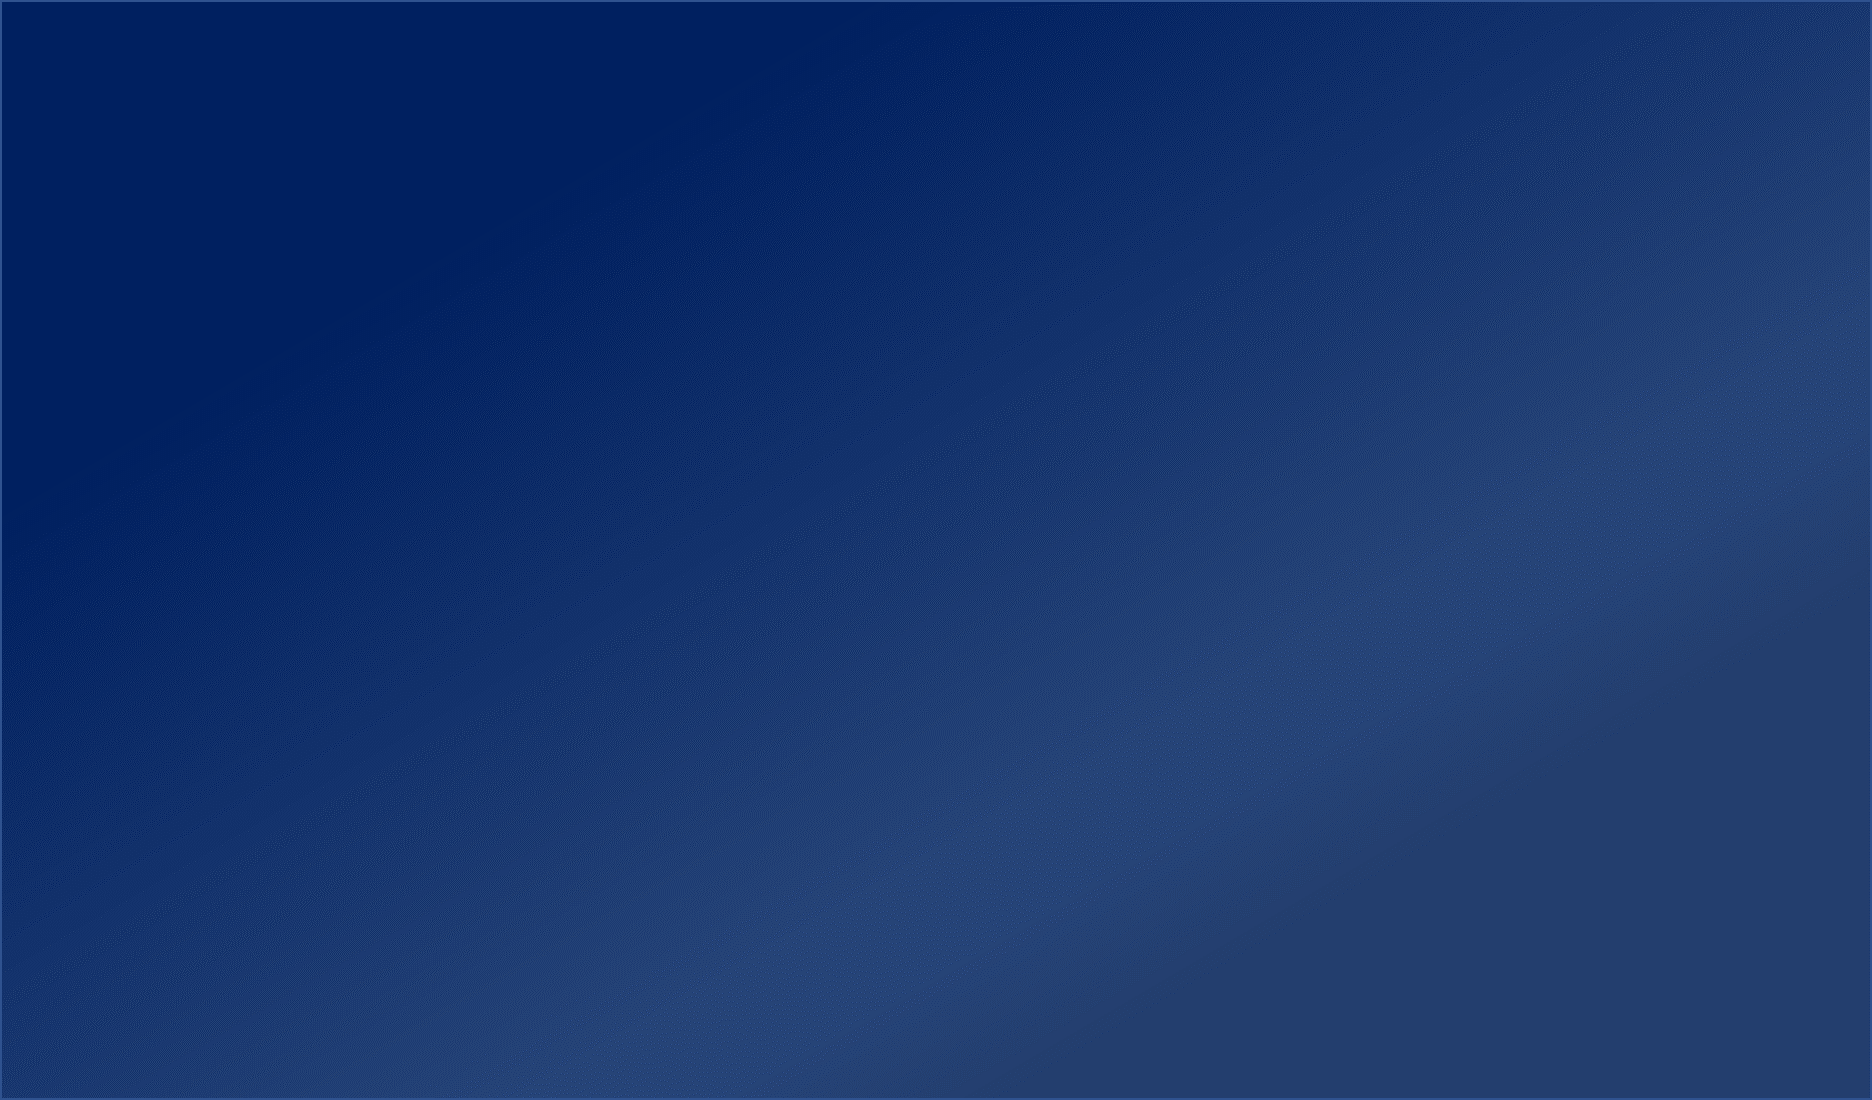
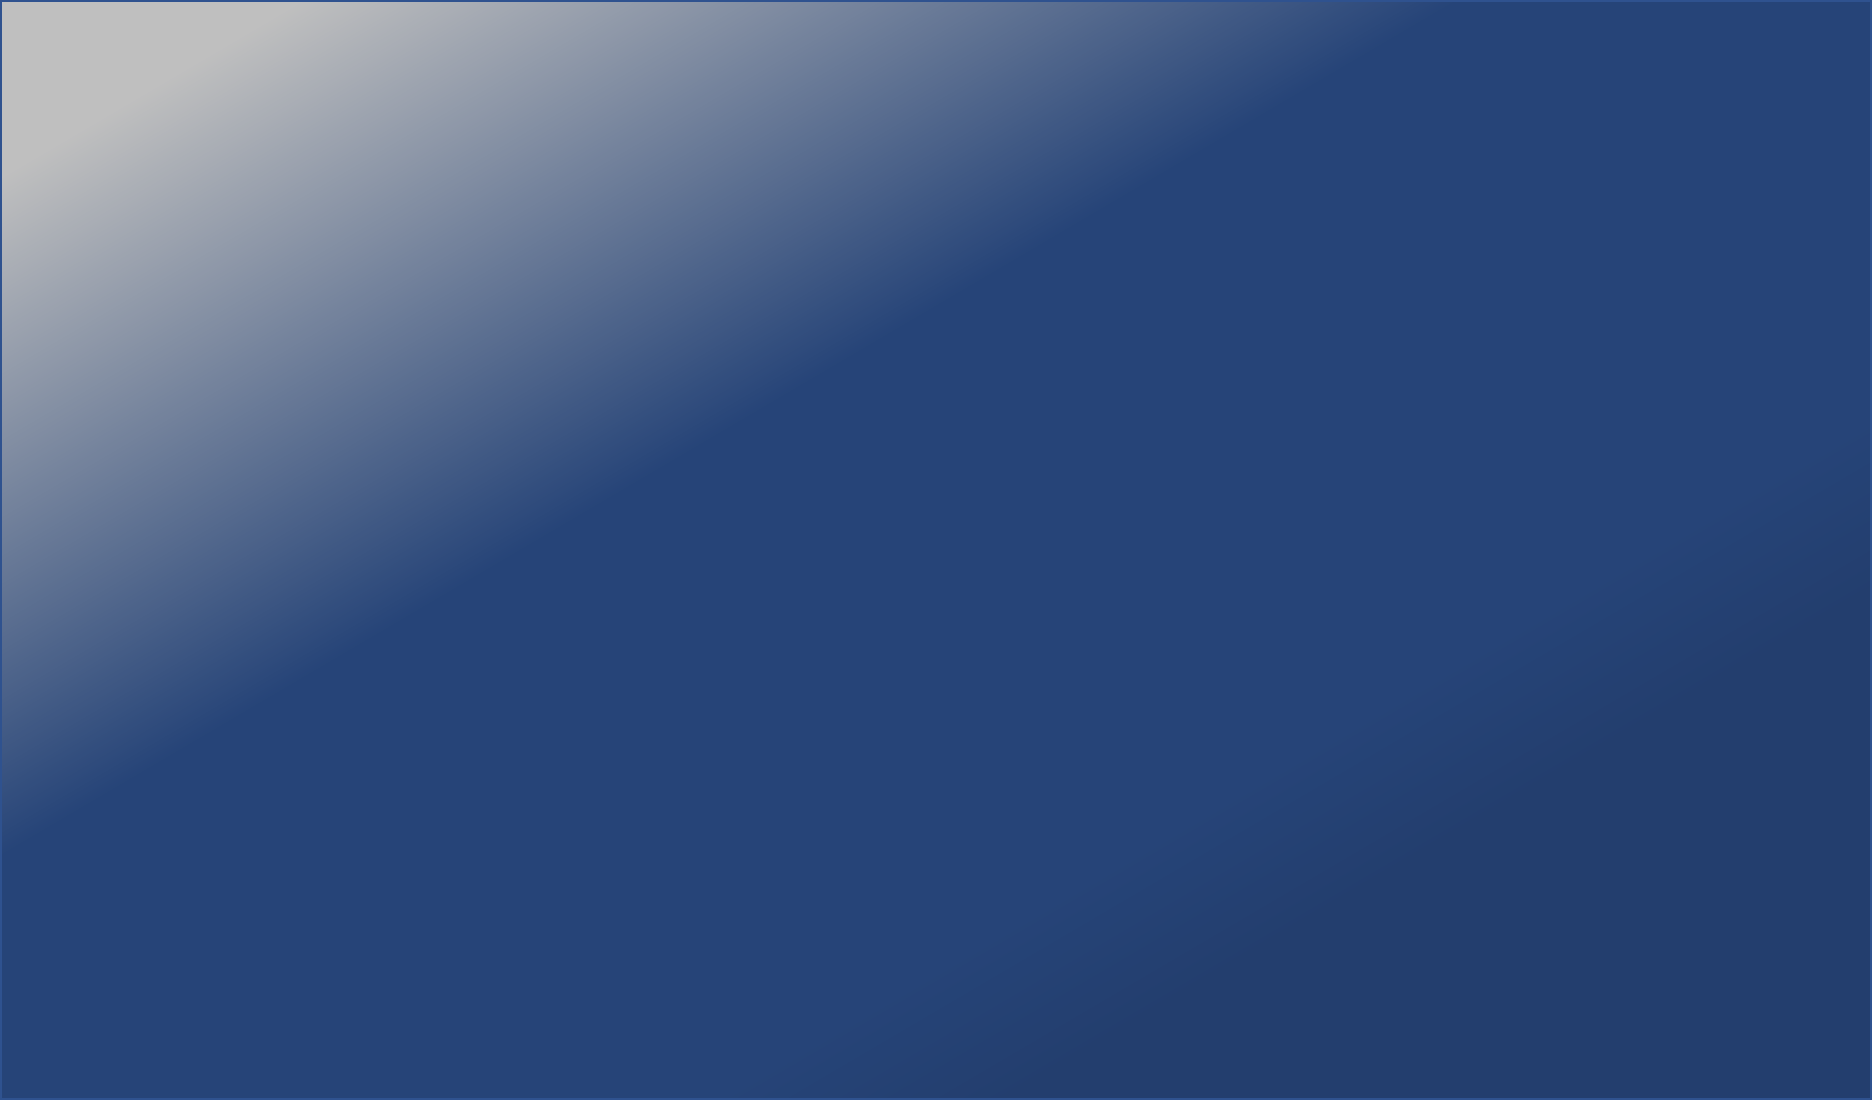
Main menu always present

diff --git a/CSS/style.css b/CSS/style.css
@@ -64,28 +64,33 @@ header
 
 .main-nav li a
 {
-  color: white;
+  color: black;
   text-decoration: none;
   padding: 5px;
   font-family: 'Times New Roman', Times, serif;
   font-size: 15px;
 }
 
-.main-nav li.active a
-{
-    border: 2px solid white;
-}
 
 .main-nav li a:hover
 {
-    border: 1px solid white;
+    border: 1px solid black;
 }
 
+.all_row
+{
+    display: inline-block;
+    width: 100%;
+    background-color: white;
+    position: sticky;
+    top:0px;
+    padding-bottom: 20px;
+
+}
 
 .row
 {
     max-width: 1200px;
-    margin:auto;
 }
 
 .hero
@@ -114,7 +119,6 @@ h2
     color: white;
     display: inline-block;
     font-size: 50px;
-    width: auto;
     text-transform: uppercase;
     border: 20px solid #010615;
     background-color: #010614;
@@ -128,9 +132,10 @@ h2
 
 h5
 {
-    color:  white;
+    color:  black;
     font-size: 20px;
     margin-top: 30px;
+    margin-left: 30px;
     float:  left;
     object-position: left;
 }
@@ -142,13 +147,22 @@ h6
     text-align: left;
 }
 
-.projects
+.about
+{
+    background: url("../Images/background.png") no-repeat center fixed;
+}
+
+.cv
 {
     background: url("../Images/background2.png") no-repeat center fixed;
 }
 
-.contact
+.projects
 {
     background: url("../Images/background3.png") no-repeat center fixed;
+}
 
+.contact
+{
+    background: url("../Images/background4.png") no-repeat center fixed;
 }

diff --git a/index.html b/index.html
@@ -6,7 +6,7 @@
         <link href="./CSS/style.css" rel="stylesheet" type="text/css">
     </head>
     <body>
-        <header>
+      <div class='all_row'>
             <div class="row">
                 <div class = "logo">
                     <h5>@dhdzmota</h5>
@@ -19,7 +19,8 @@
                 <li><a href="#contact">CONTACT</a></li>
             </ul>
             </div>
-
+        </div>
+        <header>
             <div class="hero">
                 <h1>Daniel Hernández Mota</h1>
                 <h6>Nanotechnology Engineer</h6>
